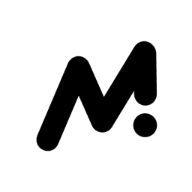
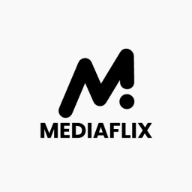
Enhance layout and components with new JustWatch attribution and view… (#32)
* Enhance layout and components with new JustWatch attribution and viewport settings

- Added viewport settings in layout.tsx for improved mobile responsiveness.
- Updated Footer component to use a direct URL for the TMDB logo.
- Integrated JustWatch logo attribution in SeasonDetail and WatchProviders components, enhancing content sourcing transparency.
- Adjusted layout in WatchProviders for better alignment and spacing of elements.

* Refactor layout and components for improved responsiveness and conditional rendering

- Removed unused viewport settings from layout.tsx to streamline code.
- Updated input styling in HeroSearch component for better text size consistency.
- Enhanced JustWatch attribution in SeasonDetail component to display conditionally based on available watch providers or country information, improving user experience and content sourcing transparency.

* Update favicon and app icons for improved branding consistency

* remove import

Changed region(s): [[0.1875, 0.1875, 0.8438, 0.8125]]

diff --git a/components/WatchProviders.tsx b/components/WatchProviders.tsx
@@ -13,6 +13,9 @@ import {
   DialogTrigger,
 } from "./ui/dialog";
 
+const JUSTWATCH_LOGO_URL =
+  "https://www.themoviedb.org/assets/2/v4/logos/justwatch-c2e58adf5809b6871db650fb74b43db2b8f3637fe3709262572553fa056d8d0a.svg";
+
 interface WatchProvidersProps {
   watchProviders: {
     flatrate?: MoviesGetWatchProvidersBuy[];
@@ -151,15 +154,55 @@ export default function WatchProviders({
                   </div>
                 ))}
               </div>
+              {/* JustWatch Attribution */}
+              <div className="flex items-center justify-center gap-1.5 pt-4 border-t border-white/10">
+                <span className="text-xs text-white/60">Powered by</span>
+                <a
+                  href="https://www.justwatch.com"
+                  target="_blank"
+                  rel="noopener noreferrer"
+                  className="flex items-center hover:opacity-80 transition-opacity"
+                  aria-label="JustWatch"
+                >
+                  <Image
+                    src={JUSTWATCH_LOGO_URL}
+                    alt="JustWatch"
+                    width={80}
+                    height={12}
+                    className="h-3 w-auto object-contain"
+                  />
+                </a>
+              </div>
             </DialogContent>
           </Dialog>
         )}
       </div>
 
-      <div className="flex overflow-x-auto scrollbar-hide">
-        {sortedProviders.slice(0, 6).map((provider) => (
-          <ProviderLogo key={provider.provider_id} provider={provider} />
-        ))}
+      <div className="flex items-center gap-3">
+        <div className="flex overflow-x-auto scrollbar-hide">
+          {sortedProviders.slice(0, 6).map((provider) => (
+            <ProviderLogo key={provider.provider_id} provider={provider} />
+          ))}
+        </div>
+        {/* JustWatch Attribution */}
+        <div className="flex items-center gap-1.5 shrink-0">
+          <span className={`text-xs ${textColor} opacity-60`}>Powered by</span>
+          <a
+            href="https://www.justwatch.com"
+            target="_blank"
+            rel="noopener noreferrer"
+            className="flex items-center hover:opacity-80 transition-opacity"
+            aria-label="JustWatch"
+          >
+            <Image
+              src={JUSTWATCH_LOGO_URL}
+              alt="JustWatch"
+              width={80}
+              height={12}
+              className="h-3 w-auto object-contain"
+            />
+          </a>
+        </div>
       </div>
     </div>
   );

diff --git a/components/SeasonDetail.tsx b/components/SeasonDetail.tsx
@@ -58,6 +58,9 @@ import {
 import { Separator } from "./ui/separator";
 import { Tooltip, TooltipContent, TooltipTrigger } from "./ui/tooltip";
 
+const JUSTWATCH_LOGO_URL =
+  "https://www.themoviedb.org/assets/2/v4/logos/justwatch-c2e58adf5809b6871db650fb74b43db2b8f3637fe3709262572553fa056d8d0a.svg";
+
 interface SeasonDetailProps {
   tvShow: TVGetDetailsBaseResponse & {
     account_states: TVGetAccountStatesResponse;
@@ -192,7 +195,7 @@ export default function SeasonDetail({
                         </h3>
                         <div className="h-px bg-border/50 flex-1" />
                       </div>
-                      <div className="flex items-center gap-3">
+                      <div className="flex items-center gap-3 flex-wrap">
                         {watchProviders.flatrate &&
                           watchProviders.flatrate.length > 0 && (
                             <div className="flex items-center gap-1">
@@ -223,6 +226,31 @@ export default function SeasonDetail({
                             Streaming in {getCountryName(country)}
                           </span>
                         )}
+                        {/* JustWatch Attribution - Only show if there are providers or country info */}
+                        {(watchProviders.flatrate &&
+                          watchProviders.flatrate.length > 0) ||
+                        country ? (
+                          <div className="flex items-center gap-1.5 shrink-0">
+                            <span className="text-xs text-muted-foreground opacity-60">
+                              Powered by
+                            </span>
+                            <a
+                              href="https://www.justwatch.com"
+                              target="_blank"
+                              rel="noopener noreferrer"
+                              className="flex items-center hover:opacity-80 transition-opacity"
+                              aria-label="JustWatch"
+                            >
+                              <Image
+                                src={JUSTWATCH_LOGO_URL}
+                                alt="JustWatch"
+                                width={80}
+                                height={12}
+                                className="h-3 w-auto object-contain"
+                              />
+                            </a>
+                          </div>
+                        ) : null}
                       </div>
                     </div>
                   )}

diff --git a/components/HeroSearch.tsx b/components/HeroSearch.tsx
@@ -242,7 +242,7 @@ export default function HeroSearch() {
           }}
           onFocus={handleInputFocus}
           placeholder="Search for movies and TV shows..."
-          className="w-full pl-12 pr-12 py-3 text-sm rounded-2xl border border-border/40 bg-background/50 backdrop-blur-xl text-foreground placeholder:text-muted-foreground/60 focus:outline-none focus:ring-2 focus:ring-foreground/10 focus:border-foreground/20 focus:bg-background/80 transition-all duration-300 hover:border-border/60 hover:bg-background/60 shadow-sm"
+          className="w-full pl-12 pr-12 py-3 text-base sm:text-sm rounded-2xl border border-border/40 bg-background/50 backdrop-blur-xl text-foreground placeholder:text-muted-foreground/60 focus:outline-none focus:ring-2 focus:ring-foreground/10 focus:border-foreground/20 focus:bg-background/80 transition-all duration-300 hover:border-border/60 hover:bg-background/60 shadow-sm"
         />
         {(isLoading || isPending) && (
           <div className="absolute inset-y-0 right-0 flex items-center pr-4">

diff --git a/components/Footer.tsx b/components/Footer.tsx
@@ -3,7 +3,9 @@ import React from "react";
 import { Separator } from "./ui/separator";
 import { Button } from "./ui/button";
 import Image from "next/image";
-import TmdbLogo from "@/images/The Movie Database Logo.png";
+
+const TMDB_LOGO_URL =
+  "https://www.themoviedb.org/assets/2/v4/logos/v2/blue_square_2-d537fb228cf3ded904ef09b136fe3fec72548ebc1fea3fbbd1ad9e36364db38b.svg";
 
 function Footer() {
   return (
@@ -16,8 +18,10 @@ function Footer() {
           className="flex items-center justify-center"
         >
           <Image
-            src={TmdbLogo}
+            src={TMDB_LOGO_URL}
             alt="The Movie Database (TMDB)"
+            width={130}
+            height={94}
             className="h-10 w-auto"
           />
         </Link>
